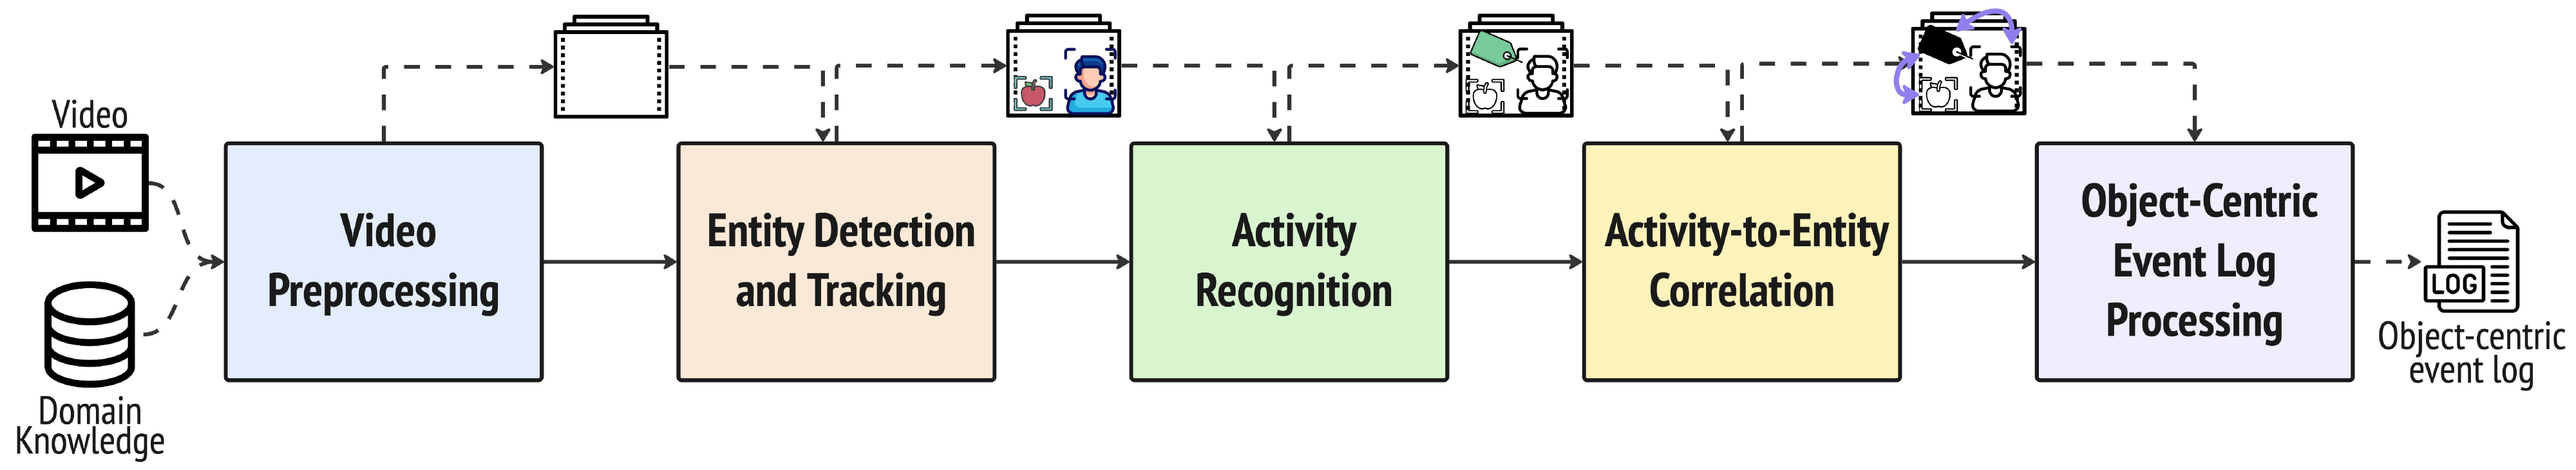
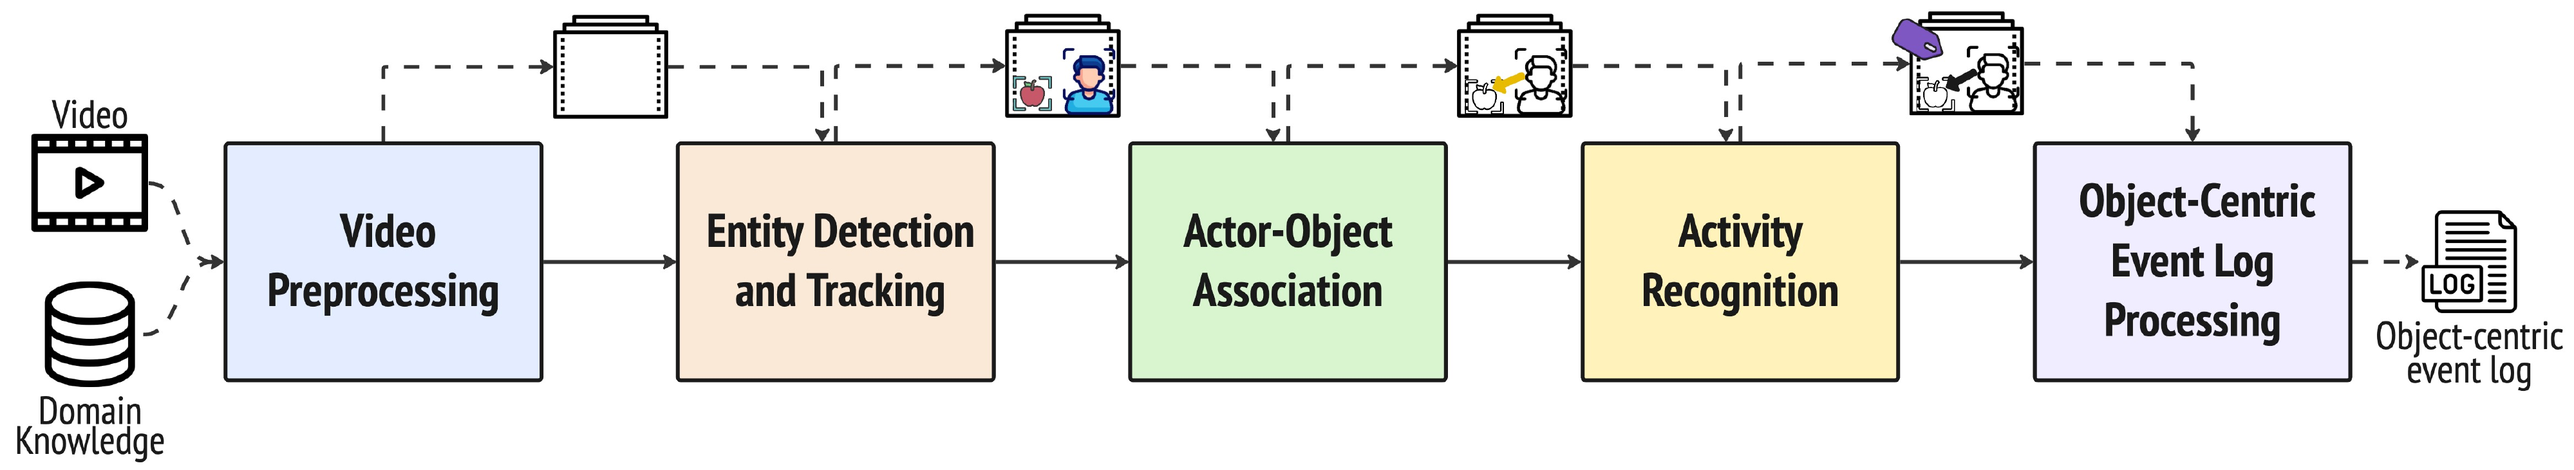
docs: explain evaluation and update pipeline figure

diff --git a/README.md b/README.md
@@ -22,6 +22,27 @@ The pipeline consists of the following sequential stages:
 4. **Action Recognition**: The Qwen3-VL-8B-Instruct model (loaded in 4-bit precision) assigns action labels to the tracked humans and uses only the objects associated with the target actor.
 5. **Output Production**: The processed data is formatted into event logs suitable for process mining applications, including object-centric event logs.
 
+## Technical details: detection and evaluation
+
+The detection notebook consolidates GroundingDINO boxes returned for different text prompts. For boxes $A$ and $B$, intersection over union is $\operatorname{IoU}(A,B)=|A\cap B|/|A\cup B|$. Candidates are sorted by confidence; class-aware non-maximum suppression (NMS) keeps the highest-scoring box and discards a later box of the same class when their IoU exceeds **0.45**. A subsequent filter retains scores of at least **0.15** and removes detections whose IoU with a retained box exceeds **0.45**, or same-class detections whose box centers are less than **50 pixels** apart. Finally, a smaller same-class box is removed when more than **80% of its area** lies inside a retained larger box. The second filter's IoU check is independent of class, unlike the initial NMS step.
+
+The cross-prompt NMS step is implemented as this confidence-ordered greedy procedure:
+
+```text
+kept = []
+for candidate in sort_by_confidence_descending(raw_candidates):
+    if any(candidate.class == box.class and
+           IoU(candidate.box, box.box) > 0.45 for box in kept):
+        continue
+    kept.append(candidate)
+```
+
+The threshold comparison is strict (`> 0.45`), so boxes with IoU exactly 0.45 are retained. The later confidence, center-distance, and containment checks are separate passes; see [`obj_det_w_dino.ipynb`](data_pipeline/jupiter_notebooks/obj_det_w_dino.ipynb) for the executable implementation.
+
+For activity class $c$, evaluation counts true positives $TP_c$, false positives $FP_c$, and false negatives $FN_c$ over annotated frames. Precision is $P_c=TP_c/(TP_c+FP_c)$, recall is $R_c=TP_c/(TP_c+FN_c)$, and $F1_c=2P_cR_c/(P_c+R_c)$; undefined ratios are scored as zero. Macro-F1 averages $F1_c$ equally over classes, whereas micro-F1 first sums the three counts over classes and then computes F1. Ground evaluation also reports support-weighted F1, $\sum_c n_c F1_c/\sum_c n_c$, where $n_c$ is the number of ground-truth frames for class $c$.
+
+TUM Kitchen permits multiple labels per frame. For true and predicted label sets $Y_t$ and $\hat Y_t$, subset accuracy averages $\mathbf{1}[Y_t=\hat Y_t]$, and Jaccard similarity averages $|Y_t\cap\hat Y_t|/|Y_t\cup\hat Y_t|$; an empty union scores one. Sequence evaluation collapses consecutive repeated activities and reports normalized edit similarity $1-d_{edit}(\sigma_{gt},\sigma_{pred})/\max(|\sigma_{gt}|,|\sigma_{pred}|)$, with two empty sequences scoring one. Where available, longest-common-subsequence (LCS) precision and recall divide the LCS length by the predicted and reference sequence lengths, respectively; LCS-F1 is their harmonic mean.
+
 ## Repository Structure
 
 The repository is organized into three main directories:
